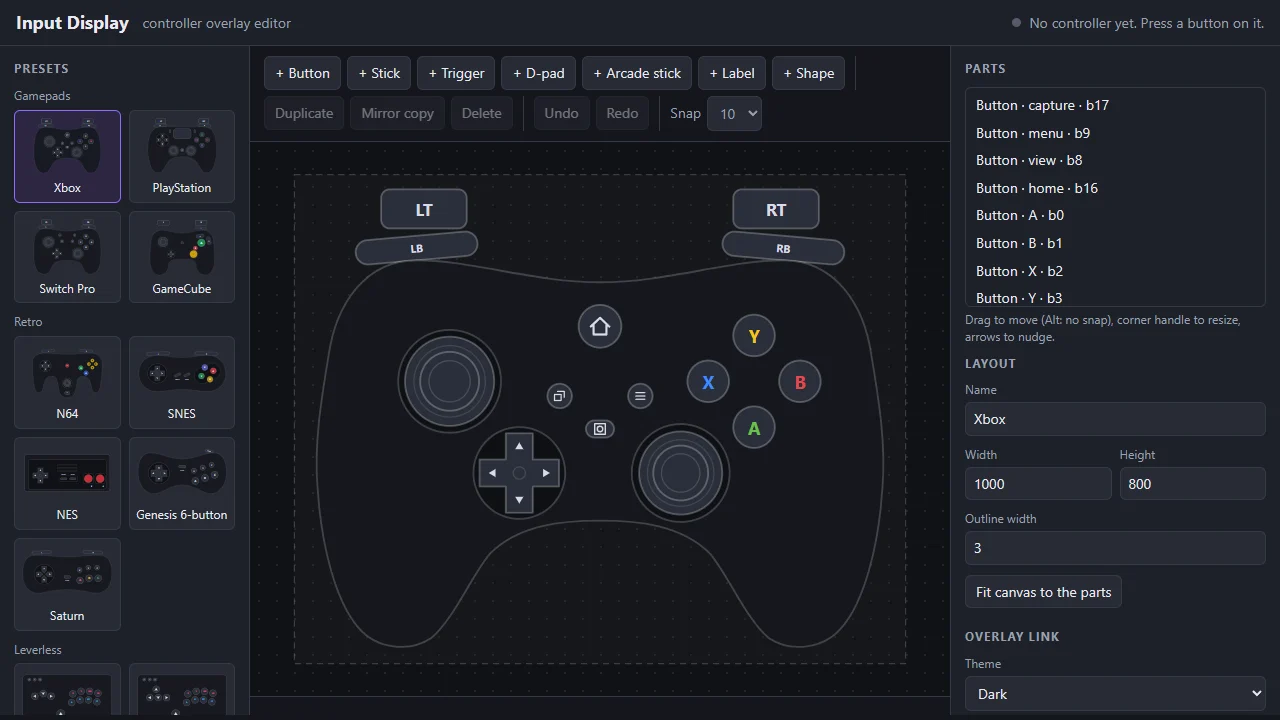
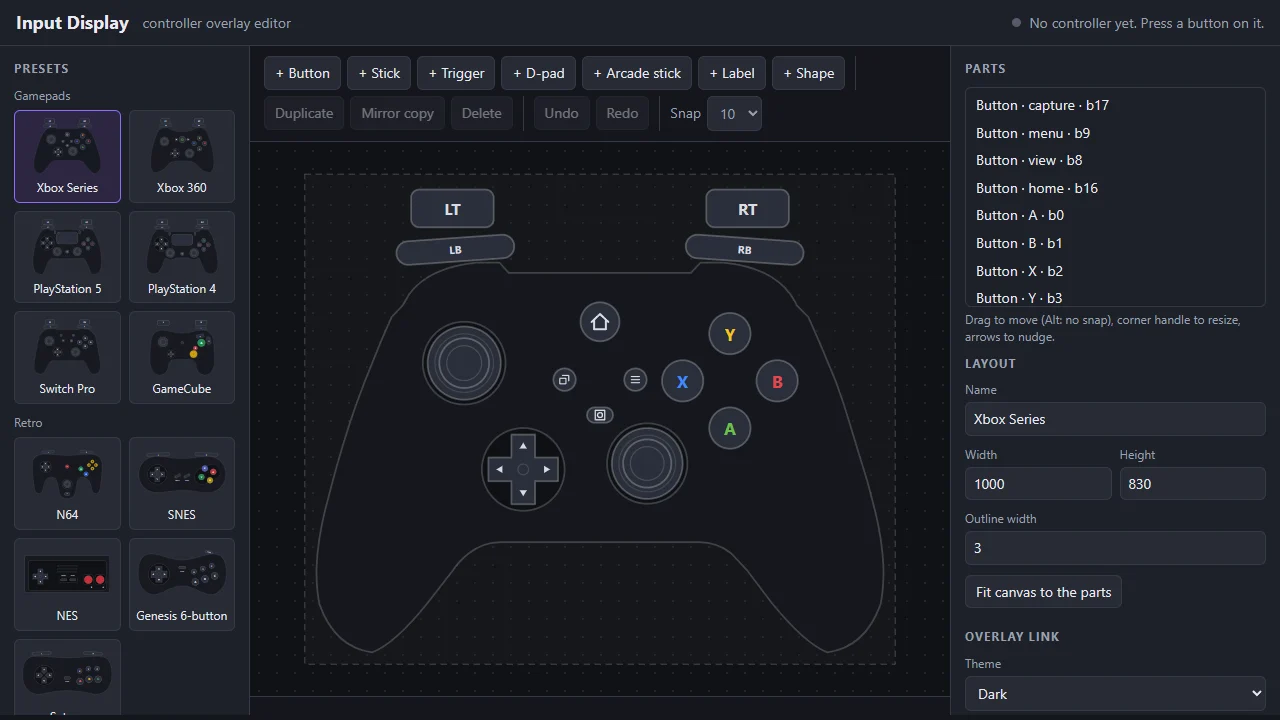
Input Display: new controller shapes in the card and guide

diff --git a/tools/input-display.html b/tools/input-display.html
@@ -112,7 +112,7 @@
                 </li>
                 <li>
                   <strong>Pick a layout</strong>
-                  Click a preset on the left: Xbox, PlayStation, Switch Pro, GameCube, N64, SNES, NES, Genesis,
+                  Click a preset on the left: Xbox Series or 360, PlayStation 5 or 4, Switch Pro, GameCube, N64, SNES, NES, Genesis,
                   Saturn, Hit Box, leverless, or a fight stick. Or start from <em>New blank</em> and build your own.
                 </li>
                 <li>
@@ -205,7 +205,8 @@
                   <tr>
                     <td><code>layout</code></td>
                     <td>
-                      A preset: <code>xbox</code>, <code>playstation</code>, <code>switch</code>, <code>gamecube</code>,
+                      A preset: <code>xbox</code>, <code>xbox360</code>, <code>playstation</code>, <code>playstation4</code>,
+                      <code>switch</code>, <code>gamecube</code>,
                       <code>n64</code>, <code>snes</code>, <code>nes</code>, <code>genesis</code>, <code>saturn</code>,
                       <code>hitbox</code>, <code>leverless-wasd</code>, <code>stick-8</code>, <code>stick-6</code>,
                       <code>stick-4</code>, or <code>raw</code> (every input the controller has)
